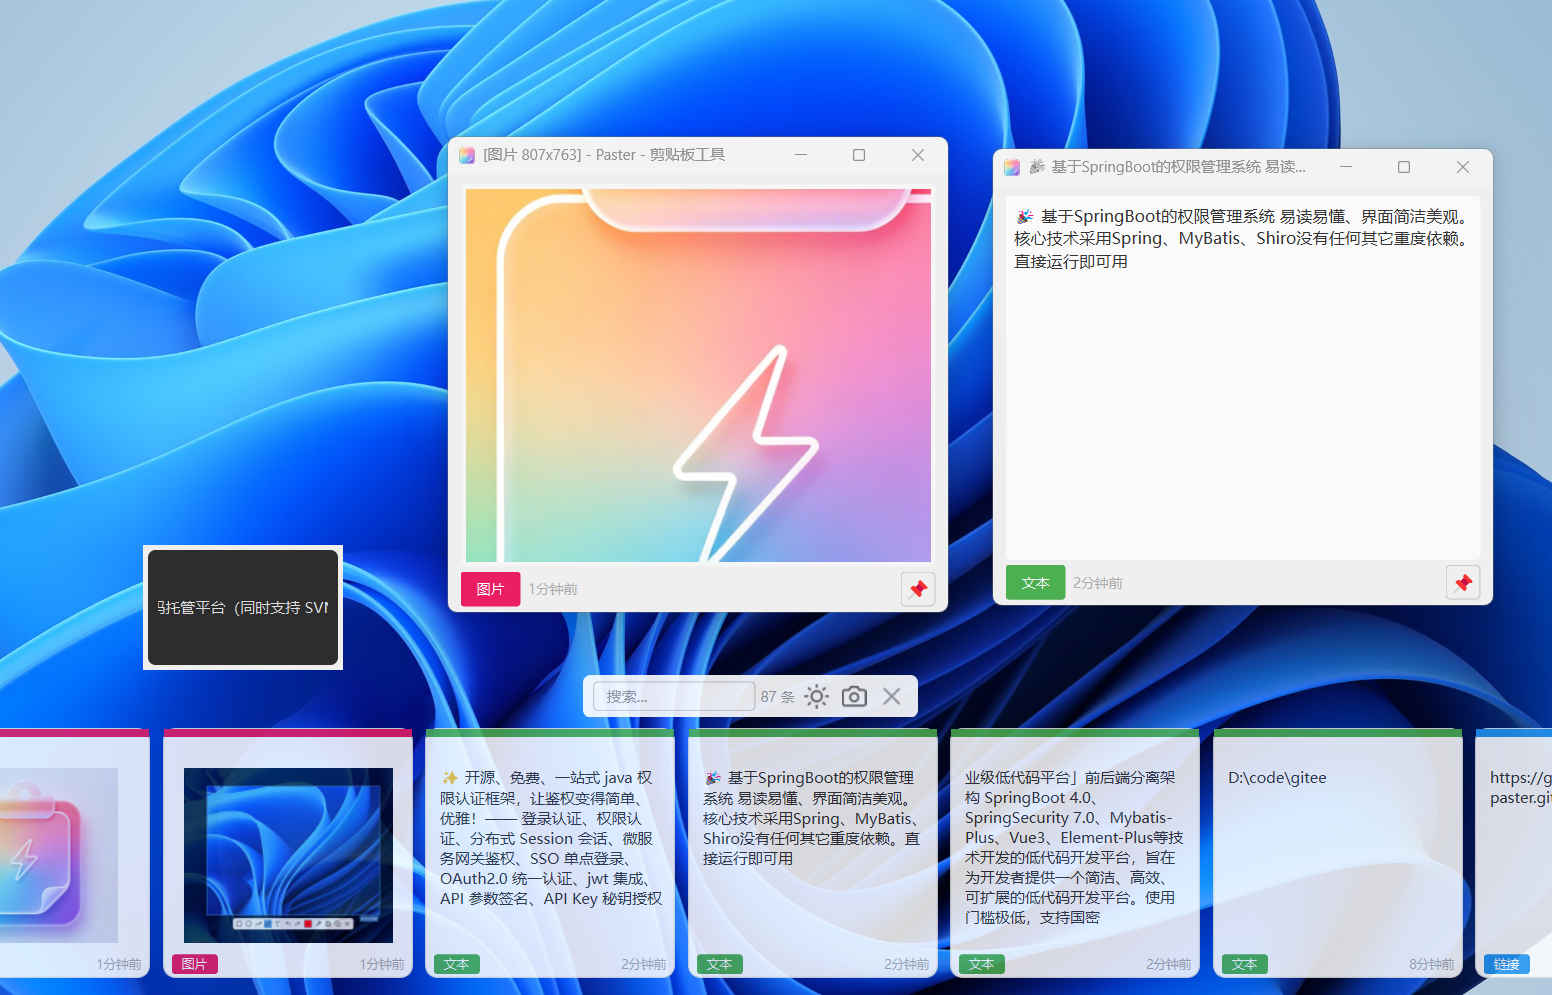
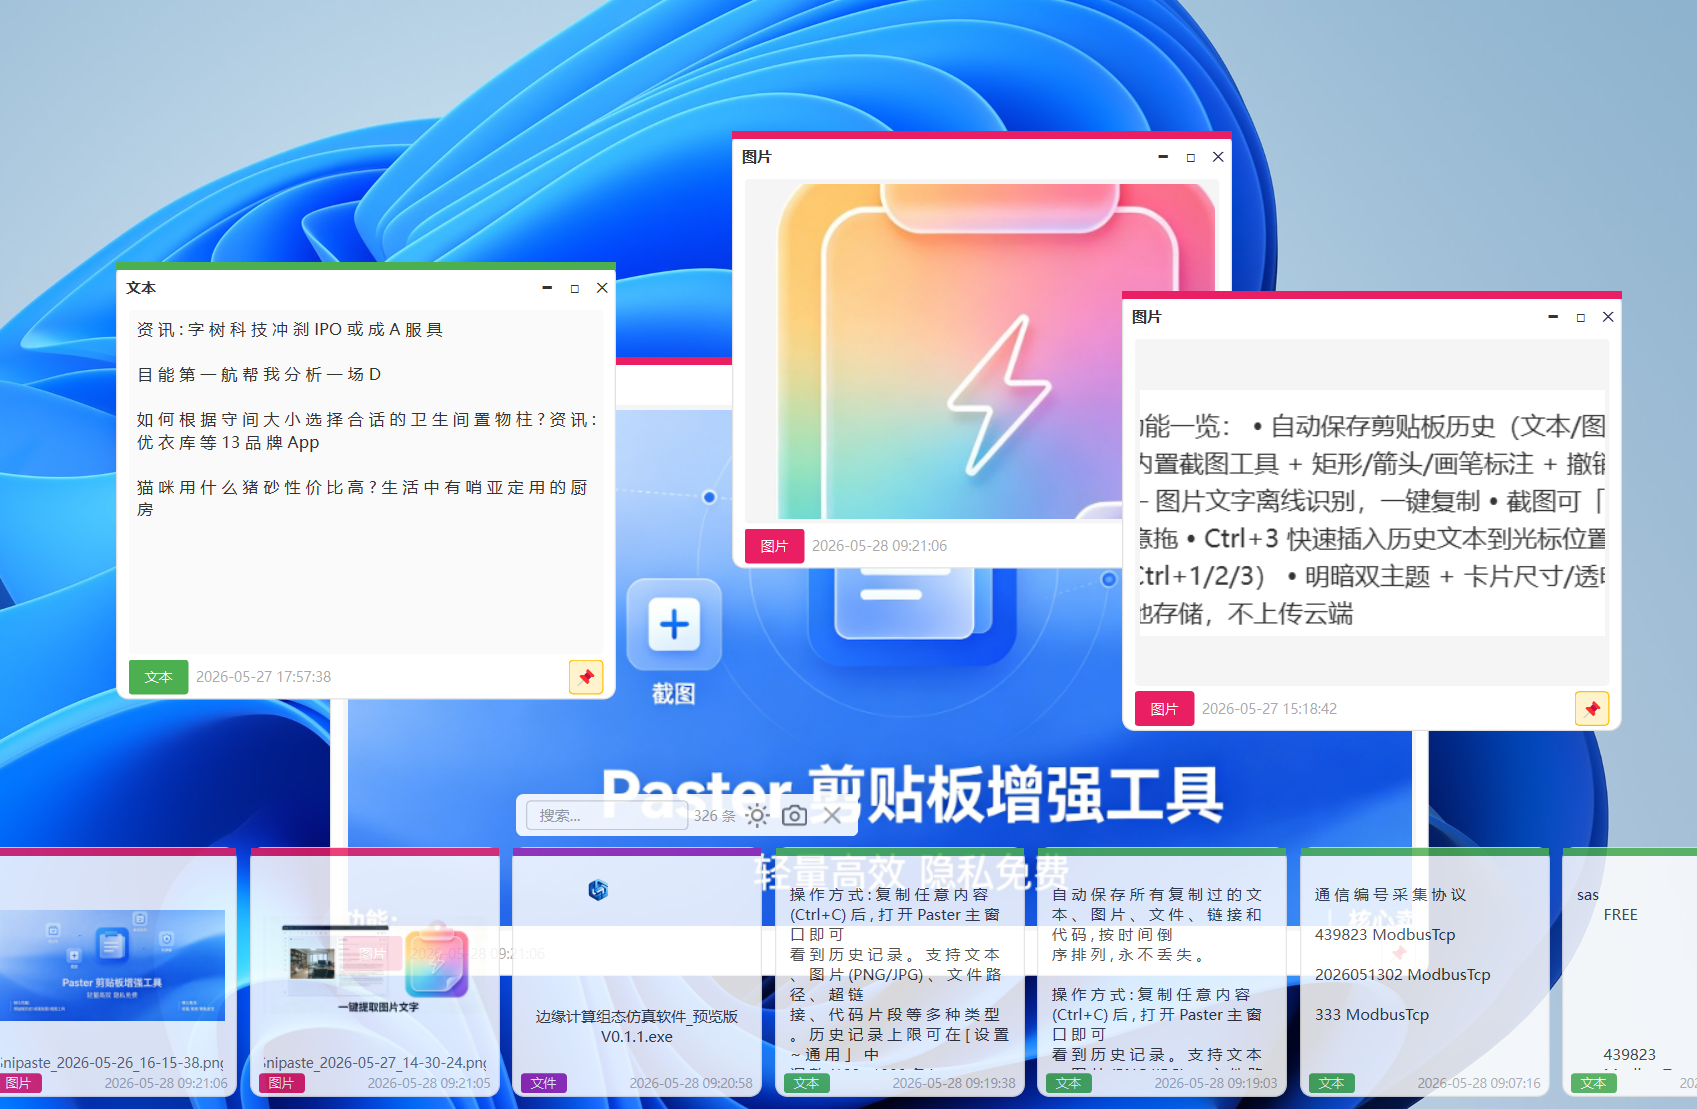
v1.0.9 更新：版本历史、效果预览图片及打赏支持

diff --git a/README.md b/README.md
@@ -10,7 +10,7 @@
   </p>
   <p>
     <img src="https://img.shields.io/badge/平台-Windows-blue?style=flat-square"/>
-    <img src="https://img.shields.io/badge/版本-1.0.1-green?style=flat-square"/>
+    <img src="https://img.shields.io/badge/版本-1.0.9-green?style=flat-square"/>
     <img src="https://img.shields.io/badge/许可证-GPLv3-orange?style=flat-square"/>
   </p>
 </div>
@@ -185,27 +185,25 @@ Paster 主窗口支持多种预设位置，灵活适应不同工作布局。
 
 <img src="https://gitee.com/aiexporter/paster/raw/master/image/3pin%E5%88%B0%E6%A1%8C%E9%9D%A2.png" width="80%" alt="桌面贴图"/>
 
-**截图工具**　　　
+| **截图工具** | **截图OCR** |
+|:---:|:---:|
+| <img src="https://gitee.com/aiexporter/paster/raw/master/image/4%E6%88%AA%E5%9B%BE%E5%B7%A5%E5%85%B7.png" width="100%" alt="截图工具"/> | <img src="https://gitee.com/aiexporter/paster/raw/master/image/5%E6%88%AA%E5%9B%BEOCR.png" width="100%" alt="截图OCR"/> |
 
-<img src="https://gitee.com/aiexporter/paster/raw/master/image/4%E6%88%AA%E5%9B%BE%E5%B7%A5%E5%85%B7.png" width="45%" alt="截图工具"/>
+| **快速插入模式** | **快速插入模式** |
+|:---:|:---:|
+| <img src="https://gitee.com/aiexporter/paster/raw/master/image/5%E5%BF%AB%E9%80%9F%E6%8F%92%E5%85%A5%E6%A8%A1%E5%BC%8F1.png" width="100%" alt="快速插入模式1"/> | <img src="https://gitee.com/aiexporter/paster/raw/master/image/6%E5%BF%AB%E9%80%9F%E6%8F%92%E5%85%A5%E6%A8%A1%E5%BC%8F2.png" width="100%" alt="快速插入模式2"/> |
 
-**截图OCR**
-<img src="https://gitee.com/aiexporter/paster/raw/master/image/5%E6%88%AA%E5%9B%BEOCR.png" width="45%" alt="截图OCR"/>
-
-**快速插入模式**
-
-<img src="https://gitee.com/aiexporter/paster/raw/master/image/5%E5%BF%AB%E9%80%9F%E6%8F%92%E5%85%A5%E6%A8%A1%E5%BC%8F1.png" width="45%" alt="快速插入模式1"/>
-
-**设置页面**　　
-
-<img src="https://gitee.com/aiexporter/paster/raw/master/image/7%E8%AE%BE%E7%BD%AE%E9%A1%B5%E9%9D%A2.png" width="45%" alt="设置页面"/>
-
-
-<img src="https://gitee.com/aiexporter/paster/raw/master/image/8%E8%AE%BE%E7%BD%AE%E9%A1%B5%E9%9D%A22.png" width="45%" alt="设置页面2"/>
+| **设置页面** | **设置页面** |
+|:---:|:---:|
+| <img src="https://gitee.com/aiexporter/paster/raw/master/image/7%E8%AE%BE%E7%BD%AE%E9%A1%B5%E9%9D%A2.png" width="100%" alt="设置页面"/> | <img src="https://gitee.com/aiexporter/paster/raw/master/image/8%E8%AE%BE%E7%BD%AE%E9%A1%B5%E9%9D%A22.png" width="100%" alt="设置页面2"/> |
 
 **快捷键配置**
 
 <img src="https://gitee.com/aiexporter/paster/raw/master/image/9%E5%BF%AB%E6%8D%B7%E9%94%AE%E9%85%8D%E7%BD%AE.png" width="70%" alt="快捷键配置"/>
+
+**识别后将文字显示到图片**
+
+<img src="https://gitee.com/aiexporter/paster/raw/master/image/10%E8%AF%86%E5%88%AB%E5%90%8E%E5%B0%86%E6%96%87%E5%AD%97%E6%98%BE%E7%A4%BA%E5%88%B0%E5%9B%BE%E7%89%87.png" width="80%" alt="识别后将文字显示到图片"/>
 
 </div>
 
@@ -253,7 +251,21 @@ Paster 主窗口支持多种预设位置，灵活适应不同工作布局。
 
 ## 📜 更新日志
 
-### v1.0.8（最新）
+### v1.0.9（最新）
+**新增功能：**
+- 设置界面样式布局调整
+- 卡片保存条数新增不限制选项
+- 图片类型的卡片增加右键OCR功能
+- OCR识别结果弹窗支持像卡片一样固定到桌面
+- OCR识别结果弹窗支持同时出现多个且支持拖拽和缩放
+- 美化OCR识别结果框和卡片组里拖拽出来的新卡片的样式
+- 截图后Pin到桌面的图片支持右键OCR识别
+- 增加截图并OCR识别文字后，将文字显示到图片对应位置的功能（默认关闭）
+- 右下角托盘图标右键功能优化，增加若干选项
+
+---
+
+### v1.0.8
 感谢小红书用户提出的OCR需求，现已实现并集成到本软件中，全程离线识别，隐私安全有保障。
 
 **新增功能：**
@@ -362,6 +374,31 @@ Paster 主窗口支持多种预设位置，灵活适应不同工作布局。
   <img src="https://gitee.com/aiexporter/paster/raw/master/image/weixin.png" width="240" alt="微信公众号二维码"/>
   <p><strong>扫码关注公众号【边缘计算组态仿真软件】</strong></p>
   <p>获取最新版本通知、功能更新与开发动态</p>
+</div>
+
+---
+
+## ☕ 打赏支持
+
+<div align="center" style="background:#fffbe6;border:1px solid #ffe58f;border-radius:8px;padding:16px 20px;margin:16px 0;">
+  <p><strong>🎉 本软件永久免费使用，纯为爱发电持续更新！🎉 </strong></p>
+  <p><strong>如果 Paster 对你有帮助，欢迎扫码请我喝杯咖啡 ☕，你的支持是我持续更新的动力！</strong></p>
+  <p><strong>所有功能完全免费，打赏仅为自愿支持，感谢每一份心意 ❤️</strong></p>
+</div>
+
+<div align="center">
+  <table>
+    <tr>
+      <td align="center">
+        <img src="https://gitee.com/aiexporter/paster/raw/master/image/wx.png" width="240" alt="微信支付"/>
+        <p><strong>微信扫码打赏</strong></p>
+      </td>
+      <td align="center">
+        <img src="https://gitee.com/aiexporter/paster/raw/master/image/zfb.png" width="240" alt="支付宝"/>
+        <p><strong>支付宝扫码打赏</strong></p>
+      </td>
+    </tr>
+  </table>
 </div>
 
 ---